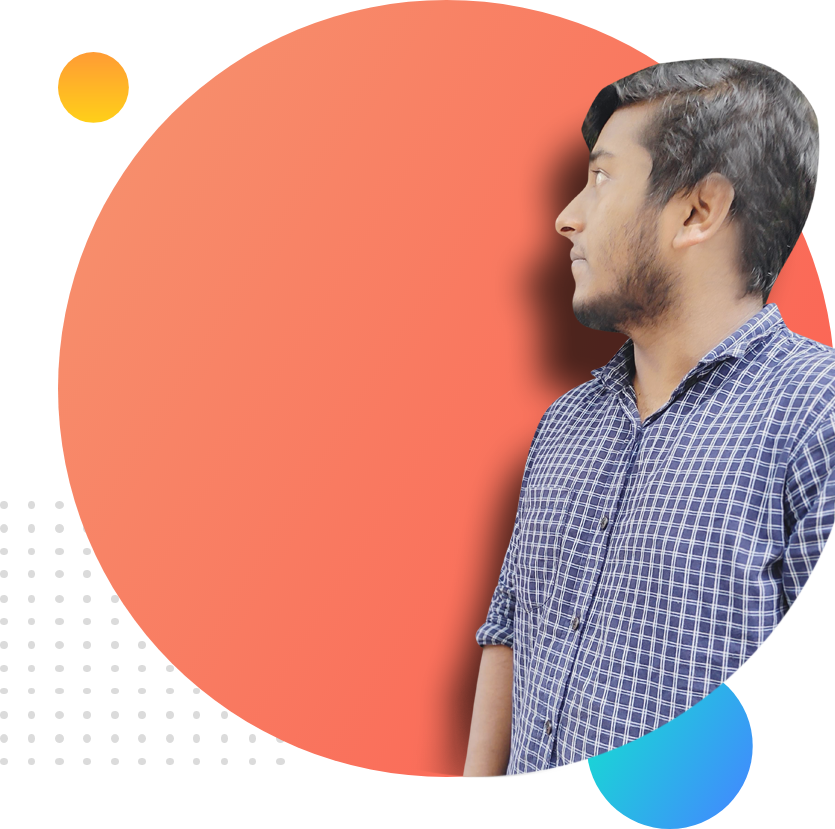
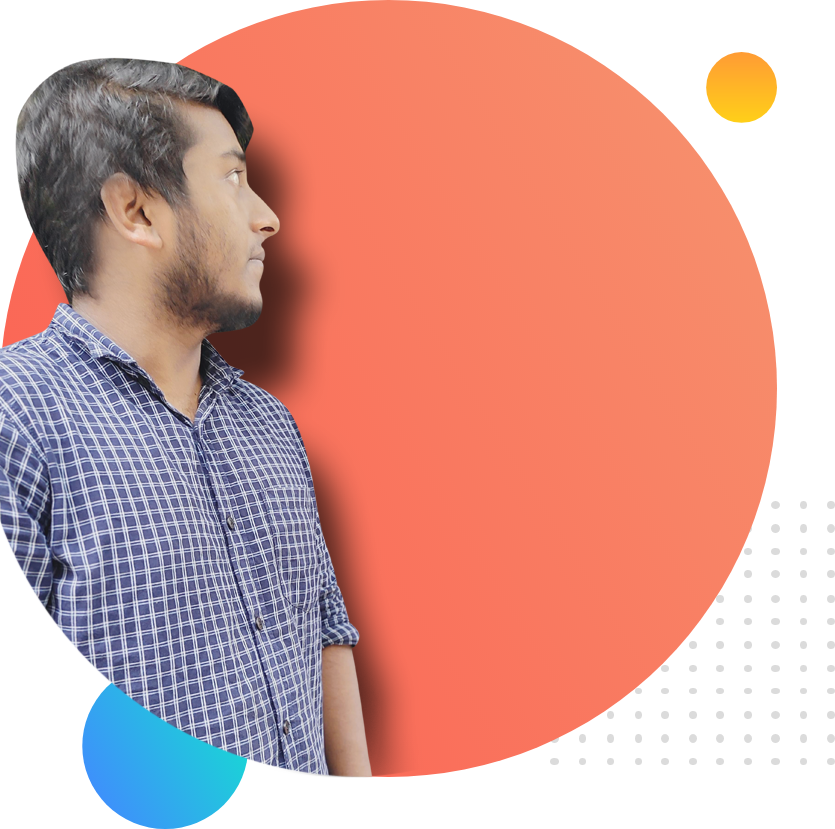
dream added

diff --git a/index.html b/index.html
@@ -29,6 +29,18 @@
             <img src="images/front.png" alt="">
         </div>
     </section>
+    <section class="dream-big">
+        <div>
+            <img src="images/side.png" alt="">
+        </div>
+        <div class="half-width">
+            <h1>Dream Big</h1>
+            <h2>Become a web Developer</h2>
+            <p>I already learned the basic HTML and CSS. I can build any simple website. I can even teach my grandma how
+                to make simple website. My goal is to build 3 websites and learn advanced topics.</p>
+            <a class="link-button" target="_blank" href="">DOWNLOAD RESUME</a>
+        </div>
+    </section>
 </body>
 
 </html>

diff --git a/style.css b/style.css
@@ -10,6 +10,7 @@ h1{
 }
 section{
     display: flex;
+    margin-bottom: 150px;
 }
 .half-width{
     width: 50%;
@@ -29,4 +30,9 @@ section{
 .top-banner{
     background-image: url(images/top-banner.png);
     background-repeat: no-repeat;
+}
+.dream-big{
+    background-image: url(images/dream-bg.png);
+    background-repeat: no-repeat;
+    background-position: right;
 }
